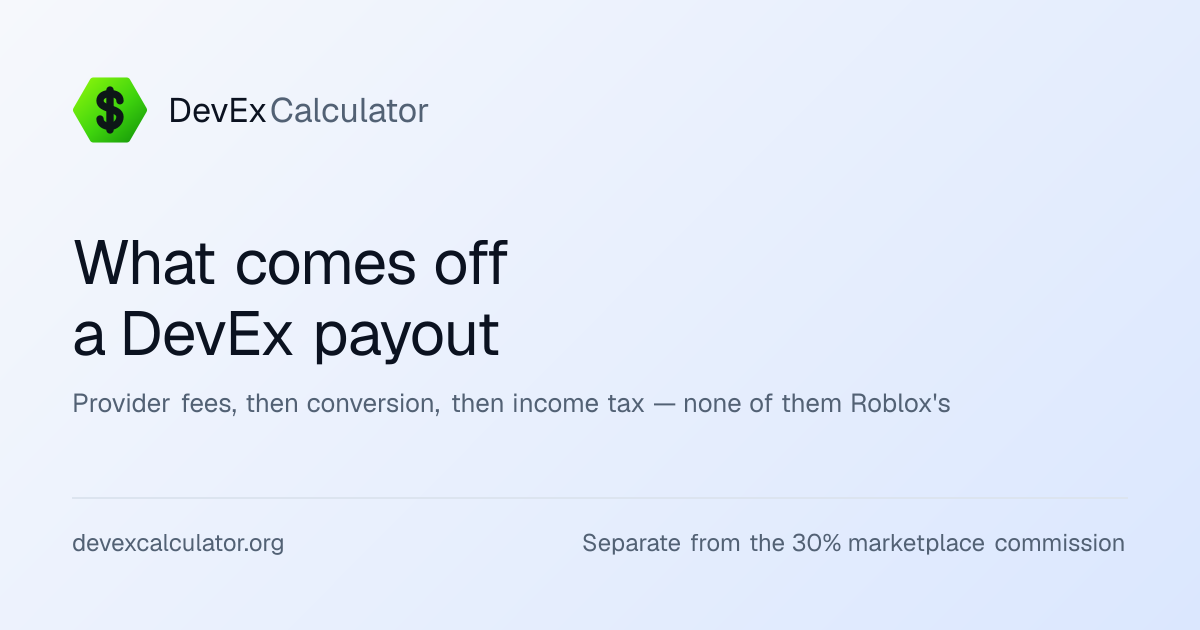
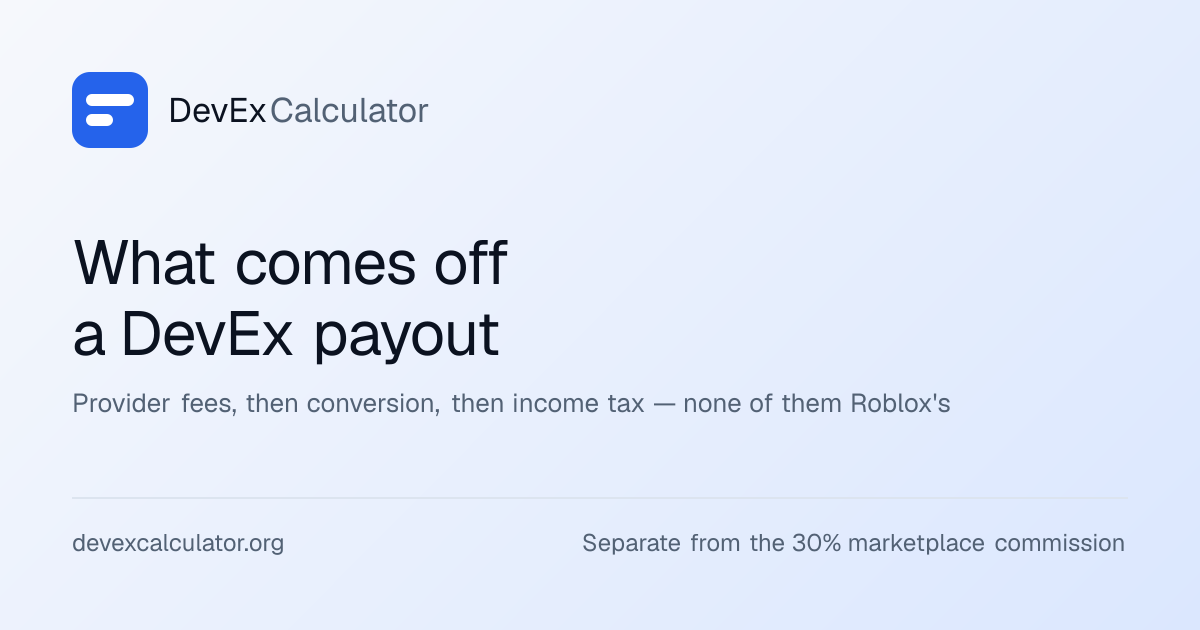
Redraw the mark for sixteen pixels, and put it on the site's own blue
The hexagon failed at the sizes a mark is actually seen at, and none of it
was a matter of taste. A three-stop gradient across a 32-unit frame has about
four pixels to resolve in at favicon size, so it averaged into a muddier
version of its middle stop. The dollar sign was stroked at 3.1/32 — under two
pixels at 16px, which renders as grey fringing rather than a line. And the
whole thing was #8bf60c lime on a site whose --color-primary, manifest
theme_color and every interactive element are #2563eb: the tab icon was the
one place the site was a different brand from itself.

The replacement is two bars, deliberately unequal, white on #2563eb, full
bleed with a 7.5/32 corner radius. The inequality is the site's own argument —
a Robux balance is not the dollar figure beside it. Checked by rasterising the
file and reading the pixels: at 16px the bars are two solid rows separated by
two rows of blue.

One geometry across every surface. src/app/icon.svg holds it on a 32 grid;
public/icons/icon.svg is the same numbers times sixteen; the maskable icon
drops the corner radius, because the platform mask supplies one and a rounded
source is rounded twice, and scales the bars to 0.84 so the furthest drawn
corner sits 153 units from centre against the 204.8 the safe zone guarantees.
The Apple touch icon is square and opaque for the same masking reason. The
header PNGs are the rounded tile at 40/80/120. The social card draws it in
[…]

Changed region(s): [[0.0617, 0.0905, 0.1233, 0.2413]]

diff --git a/src/components/layout/logo.tsx b/src/components/layout/logo.tsx
@@ -1,42 +1,44 @@
 /**
  * Brand mark.
  *
- * This is the supplied logo — a hexagon circled by two exchange arrows, holding
- * a calculator whose screen shows a dollar sign — rather than the geometric
- * placeholder that stood here while no real mark existed.
+ * Two bars, deliberately unequal, on the site's own blue. The inequality is
+ * the argument the whole site makes: a Robux balance is not the dollar figure
+ * beside it — there is a rate, a threshold, a fee, and an approval that
+ * belongs to somebody else.
  *
- * **Why the image and not the wordmark in it.** The supplied artwork is a full
- * lockup: the mark, then "DevEx" in green, then "Calculator" in white. That
- * last word is white at low opacity, so on this site's light theme it is
- * invisible and on the dark theme it is faint. Shipping the lockup would mean
- * shipping a brand name that half the readers cannot see, and text baked into a
- * picture cannot be selected, translated, or read by a screen reader. So the
- * mark is cropped out of the artwork and the name beside it stays real text in
- * `Wordmark`, which follows the theme and stays legible at every size.
+ * **Why this replaced the previous mark.** That one was a gradient hexagon
+ * holding a calculator with a dollar sign on its screen, and it failed at the
+ * sizes a mark is actually seen at. A three-stop gradient has about four
+ * pixels to resolve in at 16px and averages into a muddier tone; the dollar
+ * sign was stroked at 3.1/32, which lands under two pixels and fringes into
+ * grey; and the whole thing was lime green on a site whose accent, theme
+ * colour and every interactive element are blue. `src/app/icon.svg` sets out
+ * the drawing rules the replacement follows.
  *
- * **Why 40px and not 32.** The mark holds a calculator with six keys. Rendered
- * at the 32px the old placeholder used, the keys merge and it reads as a green
- * blob. Forty is where the drawing survives. The tab icon has the same problem
- * and cannot be made bigger, which is why `icon.svg` is drawn rather than
- * downscaled: it keeps the hexagon and the dollar sign and drops everything
- * that dies at sixteen pixels.
+ * **Why the image and not a wordmark.** The name beside the mark is real text
+ * in `Wordmark`, so it follows the theme, can be selected and translated, and
+ * is read once by a screen reader rather than twice. No word of the brand is
+ * trapped in a bitmap.
  *
- * **Cost.** 2.3 kB on an ordinary screen. Lighthouse caught the first version
- * shipping the 3x file to everyone — 88% of those bytes were thrown away by a
- * 35x40 slot — so there are now three sizes and the browser picks by pixel
- * density. Width and height are set so the mark reserves its own space and
- * cannot shift the header as it loads.
+ * **Why a PNG for three rectangles.** The `<img>` with a density-switched
+ * `srcSet` is the contract the header, the footer and the browser-image test
+ * already share, and the drawing is now cheap enough that keeping it costs
+ * nothing: 623 bytes at 1x, against 7.1 kB for the artwork it replaced. Width
+ * and height are set so the mark reserves its own space and cannot shift the
+ * header as it loads. The mark is square now, where the cropped artwork was
+ * 35x40, so the slot is five pixels wider at the same height.
  *
  * The path carries a version because the files are served immutable for a
- * year. A stable filename with a year-long cache would leave a revised logo
- * sitting in a returning reader's browser until 2027; bumping `v1` is how a
- * new mark actually reaches them.
+ * year. A stable filename with a year-long cache would leave this revision
+ * sitting behind the old green hexagon in a returning reader's browser until
+ * 2027. `v1` stays on disk so a page already cached with the old markup still
+ * finds the file it asks for.
  */
 
 /** Intrinsic size of the 1x file. The others are exact 2x and 3x multiples. */
-const INTRINSIC = { width: 35, height: 40 } as const;
+const INTRINSIC = { width: 40, height: 40 } as const;
 
-const BASE = "/brand/v1";
+const BASE = "/brand/v2";
 
 export function Logo({
   className = "h-10",
@@ -59,7 +61,7 @@ export function Logo({
     <span className={`inline-block shrink-0 ${interactive ? "perspective-normal" : ""}`}>
       {/* eslint-disable-next-line @next/next/no-img-element -- A fixed-size
           brand asset in a Server Component. next/image would add a client
-          runtime and a loader for one 7 kB PNG that never needs resizing. */}
+          runtime and a loader for one 623-byte PNG that never needs resizing. */}
       <img
         src={`${BASE}/mark-40.png`}
         srcSet={`${BASE}/mark-40.png 1x, ${BASE}/mark-80.png 2x, ${BASE}/mark-120.png 3x`}
@@ -77,8 +79,8 @@ export function Logo({
         className={[
           "block w-auto origin-center",
           // A resting shadow so the mark sits on the page rather than being
-          // pasted onto it. Tinted to the brand green rather than black.
-          "[filter:drop-shadow(0_1px_2px_rgba(21,152,10,0.35))]",
+          // pasted onto it. Tinted to the brand blue rather than black.
+          "[filter:drop-shadow(0_1px_2px_rgba(37,99,235,0.35))]",
           interactive
             ? [
                 "transform-3d",
@@ -88,7 +90,7 @@ export function Logo({
                 // link in a header, not a product shot.
                 "group-hover:motion-safe:-rotate-y-12 group-hover:motion-safe:rotate-x-6",
                 "group-hover:motion-safe:scale-108",
-                "group-hover:motion-safe:[filter:drop-shadow(0_6px_10px_rgba(21,152,10,0.45))]",
+                "group-hover:motion-safe:[filter:drop-shadow(0_6px_10px_rgba(37,99,235,0.45))]",
                 // Keyboard users get the same feedback as pointer users.
                 "group-focus-visible:motion-safe:-rotate-y-12 group-focus-visible:motion-safe:scale-108",
               ].join(" ")

diff --git a/src/lib/og/template.tsx b/src/lib/og/template.tsx
@@ -17,8 +17,8 @@ import { ImageResponse } from "next/og";
  * social crawler never reaches the Worker, and nothing here depends on runtime
  * `ImageResponse` support under the Cloudflare adapter.
  *
- * Original artwork only: the calculation motif from the site's own logo, no
- * Roblox mark and nothing resembling its trade dress.
+ * Original artwork only: the site's own mark, no Roblox mark and nothing
+ * resembling its trade dress.
  */
 
 export const OG_SIZE = { width: 1200, height: 630 } as const;
@@ -40,36 +40,47 @@ export interface OgCard {
   readonly footnote: string;
 }
 
+/**
+ * The revision of the drawing below.
+ *
+ * The card fingerprints in `public/og/cards.json` are computed from the words
+ * a card carries, which is what catches a rate change. They said nothing about
+ * the frame — so when the mark changed, fifteen committed cards would have
+ * kept the old one and `validate:localized-og` would have reported them
+ * current. Bumping this invalidates every card, which is exactly what a change
+ * to the artwork should do.
+ */
+export const MARK_VERSION = 2;
+
 /** The site mark, drawn rather than loaded so the card has no asset to fetch. */
 function Mark() {
+  /*
+   * Divs rather than an inline <svg>. Satori lays out a flex box exactly, and
+   * the mark is three rectangles, so there is nothing here that needs a vector
+   * — and nothing that depends on how much of the SVG spec Satori implements.
+   *
+   * The geometry is `src/app/icon.svg` on its 32 grid, scaled by 2.375 to the
+   * 76px this card renders it at.
+   */
+  const BAR = 12; // 5 on the 32 grid
   return (
     <div style={{ display: "flex", alignItems: "center", gap: "20px" }}>
-      {/*
-        The hexagon and the dollar sign from the brand mark, at the size a
-        social card actually renders them. The full artwork holds a calculator
-        with six keys, which at 72px merges into a green shape — the same
-        reason `icon.svg` is drawn rather than downscaled.
-      */}
-      <svg width="76" height="76" viewBox="0 0 32 32">
-        <defs>
-          <linearGradient id="og-hex" x1="4" y1="2" x2="28" y2="30" gradientUnits="userSpaceOnUse">
-            <stop offset="0" stopColor="#8bf60c" />
-            <stop offset="0.55" stopColor="#3fd40d" />
-            <stop offset="1" stopColor="#15980a" />
-          </linearGradient>
-        </defs>
-        <path
-          d="M30 16 L23 28.1 L9 28.1 L2 16 L9 3.9 L23 3.9 Z"
-          fill="url(#og-hex)"
-          stroke="url(#og-hex)"
-          strokeWidth="3.2"
-          strokeLinejoin="round"
-        />
-        <g stroke="#0d1717" strokeWidth="3.1" strokeLinecap="round" fill="none">
-          <path d="M16 7.6 V24.4" />
-          <path d="M20.2 12.1 C20.2 10 18.3 9.1 16 9.1 C13.7 9.1 11.8 10.1 11.8 12.1 C11.8 16 20.2 14.9 20.2 18.9 C20.2 21.1 18.3 22.9 16 22.9 C13.7 22.9 11.8 21.7 11.8 19.8" />
-        </g>
-      </svg>
+      <div
+        style={{
+          display: "flex",
+          flexDirection: "column",
+          justifyContent: "center",
+          gap: "8px",
+          width: 76,
+          height: 76,
+          paddingLeft: 14,
+          borderRadius: 18,
+          background: "#2563eb",
+        }}
+      >
+        <div style={{ width: 48, height: BAR, borderRadius: BAR / 2, background: "#fff" }} />
+        <div style={{ width: 27, height: BAR, borderRadius: BAR / 2, background: "#fff" }} />
+      </div>
       <div style={{ display: "flex", fontSize: 34, fontWeight: 700, color: "#0b1220" }}>
         DevEx
         <span style={{ fontWeight: 500, color: "#526174" }}>Calculator</span>

diff --git a/scripts/og/build-localized-cards.ts b/scripts/og/build-localized-cards.ts
@@ -27,10 +27,12 @@
  * metadata.
  *
  * The cards are committed, and `--check` compares each one against a
- * fingerprint of what it was drawn from — the locale, the rate, the minimum
- * and the four strings. A rate change therefore fails the build until the
- * cards are regenerated, rather than leaving six previews quoting a figure the
- * site no longer publishes.
+ * fingerprint of what it was drawn from — the locale, the rate, the minimum,
+ * the four strings, and `MARK_VERSION` for the frame they are drawn in. A rate
+ * change therefore fails the build until the cards are regenerated, rather
+ * than leaving six previews quoting a figure the site no longer publishes; and
+ * so does a change to the artwork, which the fingerprint used to miss
+ * entirely.
  */
 
 /*
@@ -53,7 +55,7 @@ import { formatCurrency, formatRate, formatRobux } from "../../src/lib/calculati
 import { Rational } from "../../src/lib/calculations/rational";
 import { getTranslator } from "../../src/i18n/get-dictionary";
 import { getLocaleMeta, DEFAULT_LOCALE, LAUNCH_LOCALES } from "../../src/i18n/config";
-import { renderOgImage, type OgCard } from "../../src/lib/og/template";
+import { MARK_VERSION, renderOgImage, type OgCard } from "../../src/lib/og/template";
 import { englishCardSlug, englishCards } from "../../src/lib/og/english-cards";
 import type { Locale } from "../../src/i18n/types";
 
@@ -81,7 +83,7 @@ async function cardFor(locale: Locale): Promise<{ card: OgCard; fingerprint: str
   };
 
   const fingerprint = createHash("sha256")
-    .update(JSON.stringify({ locale, card, alt: t("seo.og.alt") }))
+    .update(JSON.stringify({ locale, card, alt: t("seo.og.alt"), mark: MARK_VERSION }))
     .digest("hex")
     .slice(0, 16);
 
@@ -108,7 +110,7 @@ function englishTargets(): { name: string; card: OgCard; fingerprint: string }[]
     name: englishCardSlug(route),
     card: entry.card,
     fingerprint: createHash("sha256")
-      .update(JSON.stringify({ route, card: entry.card, alt: entry.alt }))
+      .update(JSON.stringify({ route, card: entry.card, alt: entry.alt, mark: MARK_VERSION }))
       .digest("hex")
       .slice(0, 16),
   }));

diff --git a/src/app/manifest.ts b/src/app/manifest.ts
@@ -14,8 +14,10 @@ export default function manifest(): MetadataRoute.Manifest {
     categories: ["finance", "utilities"],
     // Scalable SVG covers every size an installable app needs, so no raster
     // icon is shipped that would only be a downscaled copy of it. The one
-    // exception is the Apple touch icon, which iOS requires as a PNG and which
-    // `src/app/apple-icon.tsx` generates at build time.
+    // exception is the Apple touch icon, which iOS requires as a PNG; it is a
+    // committed file at `public/icons/apple-touch-icon.png`, because the
+    // `apple-icon.tsx` convention produced an extensionless URL that
+    // `trailingSlash: true` answered with a 308.
     icons: [
       { src: "/icons/icon.svg", sizes: "any", type: "image/svg+xml", purpose: "any" },
       { src: "/icons/maskable.svg", sizes: "any", type: "image/svg+xml", purpose: "maskable" },

diff --git a/docs/decision-log.md b/docs/decision-log.md
@@ -1665,3 +1665,66 @@ render, which is the opposite of where this site just went); the RSC payload is
 62% of the delivered HTML; `robots.txt` is not edge-cached; the Worker bundle
 sits at 92% of the 3 MB limit, so the next dependency needs a measurement
 first.
+
+## D-053 · The mark is redrawn for sixteen pixels, and moved onto the site's own blue
+
+**Reverses part of D-043.** The supplied hexagon is gone from every surface it
+was shipped on. The reasoning in D-043 was sound about *what* survives a
+downscale; it was wrong about whether the thing being downscaled was worth
+keeping.
+
+**What was actually wrong with it**, none of it a matter of taste:
+
+- A three-stop gradient across a 32-unit frame has about four pixels to resolve
+  in at favicon size. It does not read as a gradient; it averages into a
+  muddier version of its middle stop.
+- The dollar sign was stroked at 3.1/32 — under two pixels at 16px. A stroke
+  that thin does not render as a line, it renders as grey fringing.
+- `#8bf60c` is near-maximum-chroma lime. D-044 had already measured it at
+  1.37:1 and ruled it decorative-only.
+- The site's `--color-primary`, its manifest `theme_color`, and every
+  interactive element on every page are `#2563eb`. The tab icon was the one
+  place the site was a different brand from itself.
+
+**The replacement.** Two bars, deliberately unequal, white on `#2563eb`, full
+bleed with a 7.5/32 corner radius. The inequality is the site's own argument —
+a Robux balance is not the dollar figure beside it — and two thick bars are
+about the most legible thing that exists at sixteen pixels. Rendered at 16px
+the bars are two solid pixel rows separated by two rows of blue, which was
+checked by rasterising the file and reading the pixels rather than by looking
+at it large.
+
+**One geometry, six surfaces.** `src/app/icon.svg` holds it on a 32 grid;
+`public/icons/icon.svg` is the same numbers times sixteen; the maskable icon
+drops the corner radius, because the platform mask supplies one and a rounded
+source is rounded twice, and scales the bars to 0.84 so the furthest drawn
+corner sits 153 units from centre against the 204.8 the safe zone guarantees.
+The Apple touch icon is square and opaque for the same masking reason. The
+header PNGs are the rounded tile at 40/80/120. The social card draws it in
+flex-box divs rather than an inline `<svg>`, because Satori lays out a flex box
+exactly and the mark is three rectangles — there is nothing here that needs a
+vector, and nothing that should depend on how much of the SVG spec Satori
+implements.
+
+**The header mark is square now**, where the cropped artwork was 35×40, so the
+slot is five pixels wider at the same height. `INTRINSIC` moves with it, so the
+space is still reserved and the header still cannot shift as it loads. The
+files also stopped being expensive: 623 bytes at 1x against 7.1 kB, because
+three rectangles compress better than a rendered illustration.
+
+**`/brand/v2/`, and `v1` stays on disk.** The files are served immutable for a
+year, which is only safe because the path carries a version — that was the
+whole point of D-043's versioning, and this is the first time it has been used.
+The old files are left in place so a page already cached with the old markup
+finds the file it asks for rather than a 404.
+
+**A fingerprint that had never watched the frame.** `public/og/cards.json`
+fingerprints each social card from the words it carries, which is what makes a
+rate change fail the build. It said nothing about the artwork — so this change
+would have left fifteen committed cards drawn in the old mark while
+`validate:localized-og` reported them current. The fingerprint now includes
+`MARK_VERSION`, and bumping it invalidated all fourteen cards, which is exactly
+what a change to the drawing should do.
+
+*Change if:* the mark changes again. Bump `MARK_VERSION`, bump `/brand/vN/`,
+and regenerate — the two gates will tell you what you missed.
